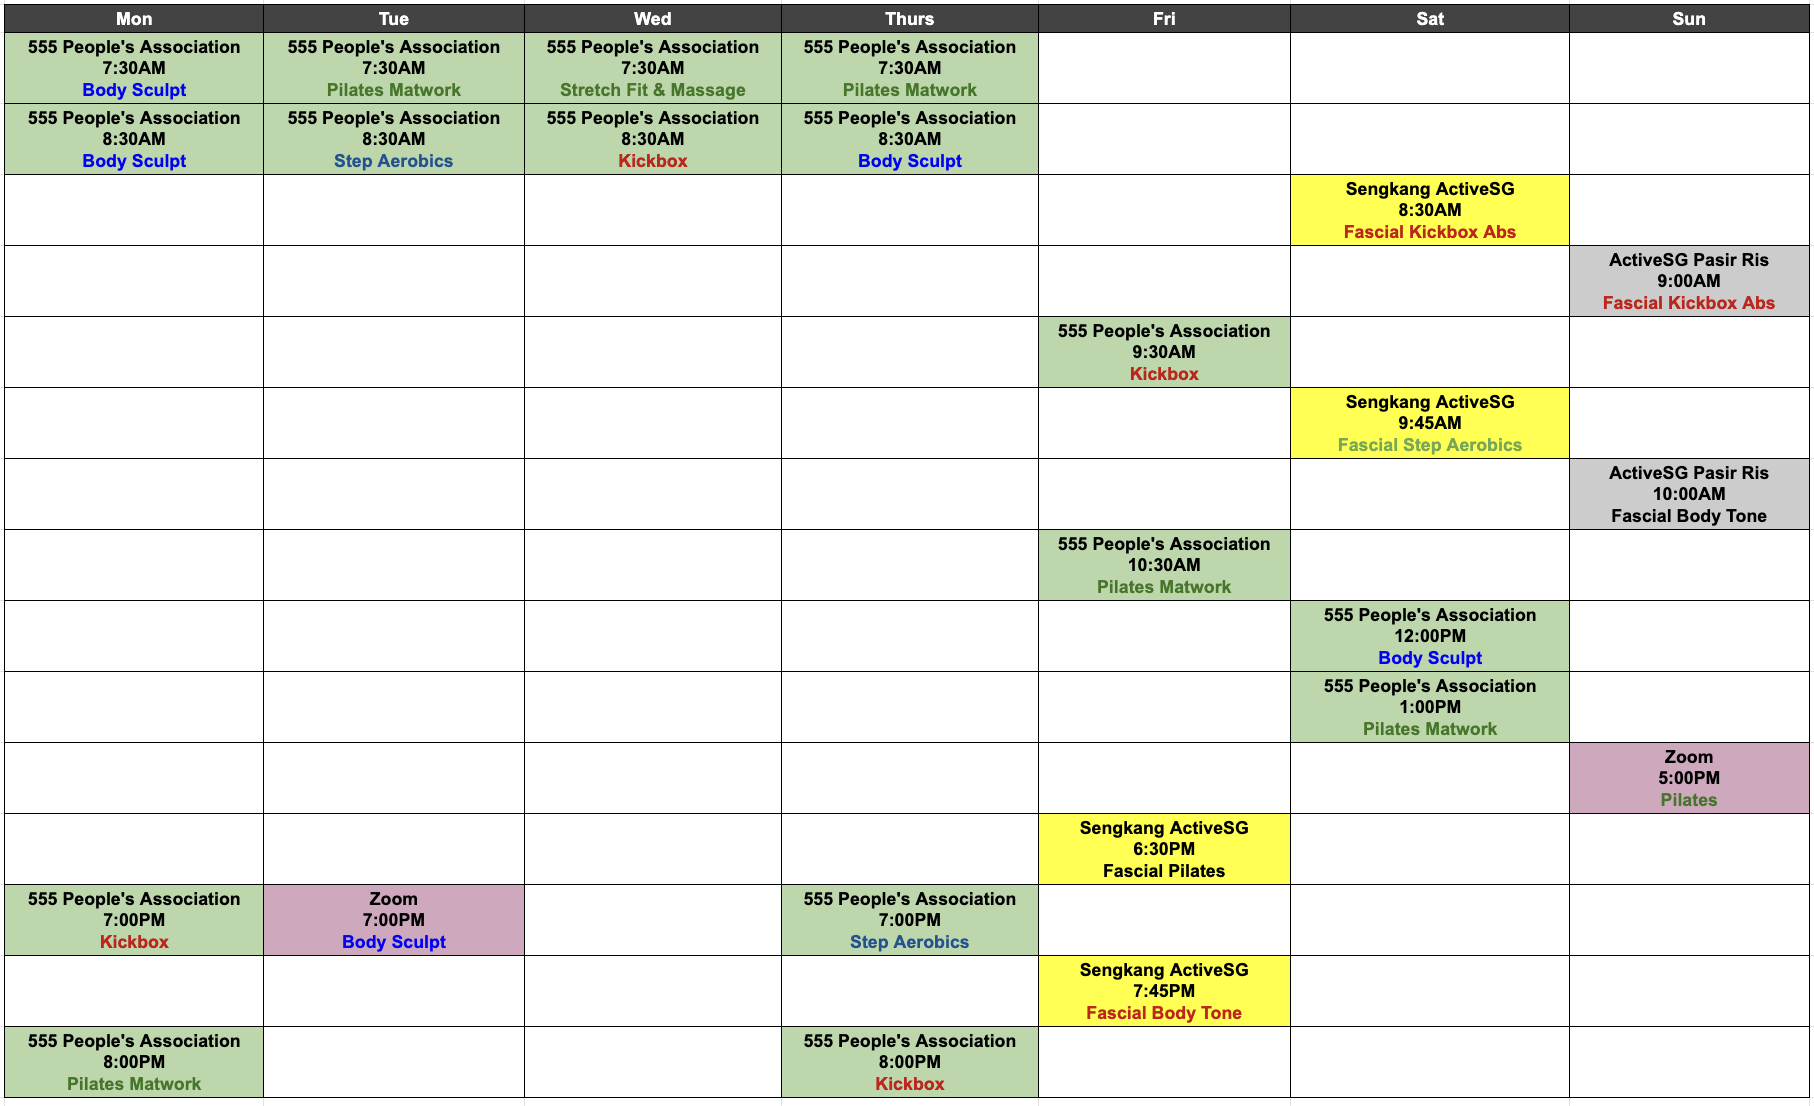
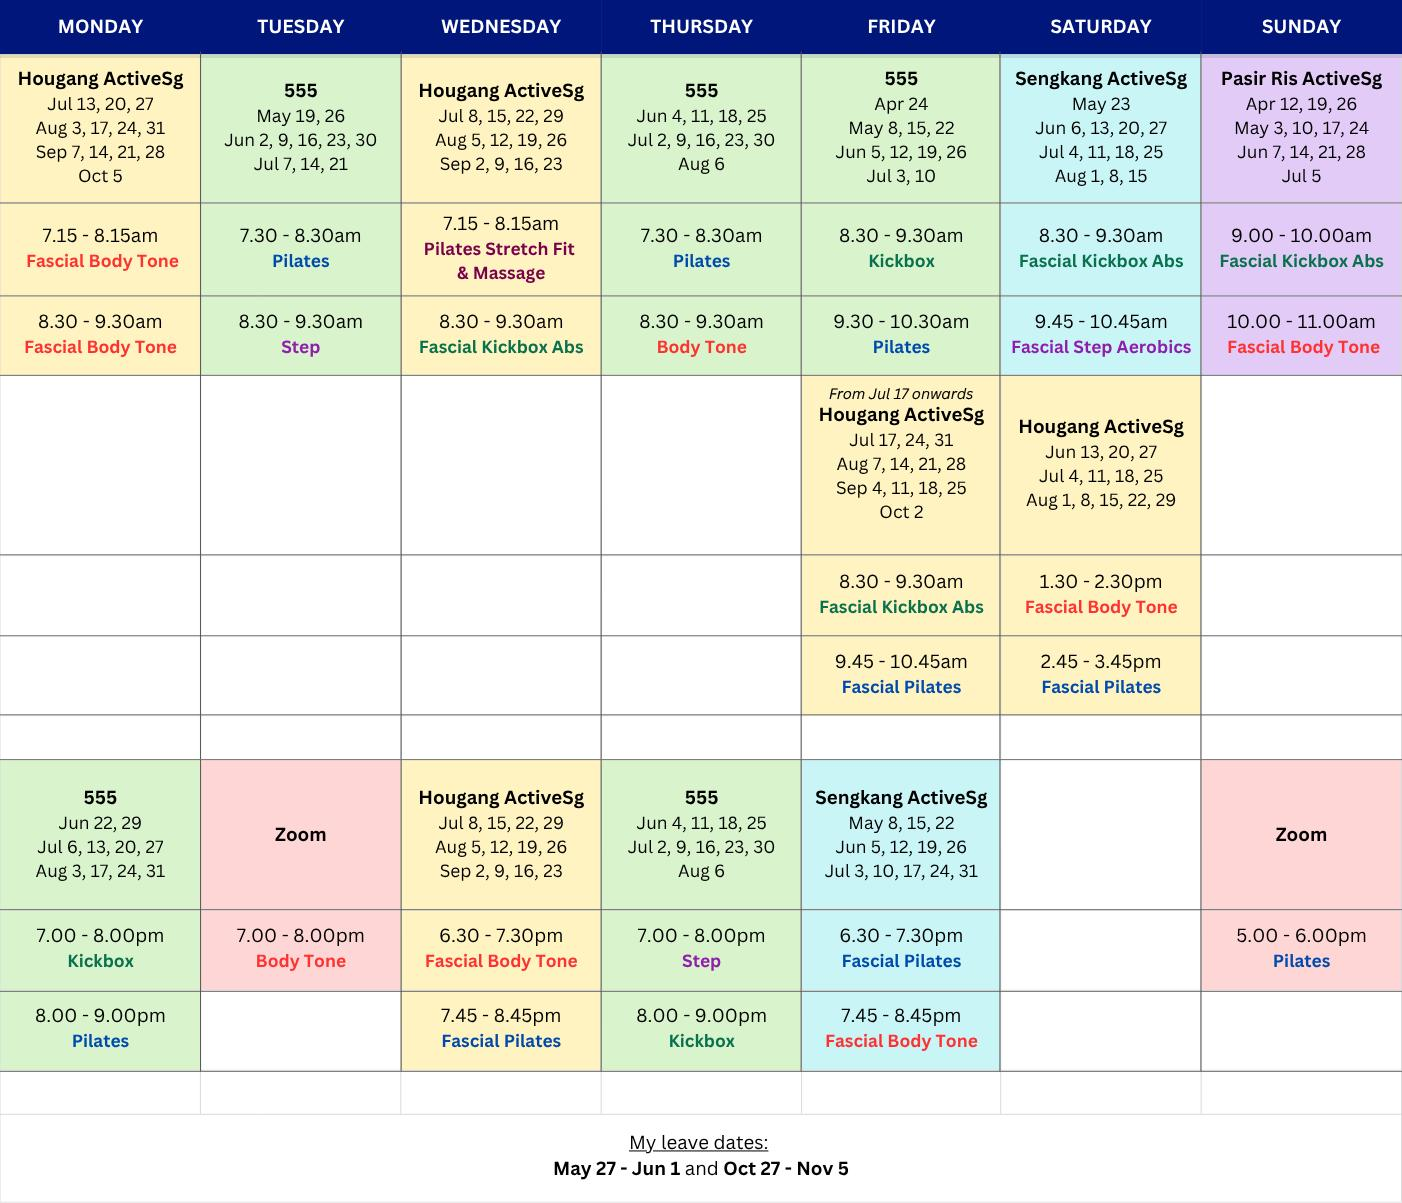
Update Schedule, Add Hougang Src

diff --git a/pages/classes.html b/pages/classes.html
@@ -24,6 +24,14 @@
 
     <div class="container-sub">
 
+      <h2>Leave Dates (No Class)</h2>
+      <div>
+        <ul>
+          <li>May 27 - Jun 1</li>
+          <li>Oct 27 - Nov 5</li>
+        </ul>
+      </div>
+
       <h2>Overall Schedule</h2>
 
       <div class="schedule-img-actions-container">
@@ -49,6 +57,42 @@
       <h2>Check them out below and secure your slots early. See you there!</h2>
 
       <div class="bookings-container">
+
+        <div class="booking-item-container bg-blur">
+          <div class="display-logo-container">
+            <img src="../images/activesglogo.png" class="img-cover" />
+          </div>
+          <h3>Active SG <b>Hougang</b> Sports Centre</h3>
+          <div class="booking-cta-container">
+            <button onclick="openInNewTab('https://www.google.com/maps/search/?api=1&query=Hougang+Sports+Centre')" class="loc">
+              <img class="ext-open" src="../icons/location.svg" />
+              <span class="ext-open-label">
+                See Location
+              </span>
+            </button>
+            <button
+              onclick="openInNewTab('https://activesg.gov.sg/programmes?filters=%7B%22searchQuery%22%3A%22iris+sim%22%2C%22showAvailableOnlyFilter%22%3Afalse%7D')"
+              class="makebook">
+              <img class="ext-open" src="../icons/ext-blue.svg" />
+              <span class="ext-open-label">
+                Book Slots
+              </span>
+            </button>
+          </div>
+          <span>Class Timings:</span>
+          <ul>
+            <li>Mon 7.15am - Fascial Body Tone</li>
+            <li>Mon 8.30am - Fascial Body Tone</li>
+            <li>Wed 7.15am - Pilates Stretch Fit &amp; Massage</li>
+            <li>Wed 8.30am - Fascial Kickbox Abs</li>
+            <li>Wed 6.30pm - Fascial Body Tone</li>
+            <li>Wed 7.45pm - Fascial Pilates</li>
+            <li>(*17th Jul onwards) Fri 8.30am - Fascial Kickbox Abs</li>
+            <li>(*17th Jul onwards) Fri 9.45am - Fascial Pilates</li>
+            <li>Sat 1.30pm - Fascial Body Tone</li>
+            <li>Sat 2.45pm - Fascial Pilates</li>
+          </ul>
+        </div>
 
         <div class="booking-item-container bg-blur">
           <div class="display-logo-container">
@@ -132,22 +176,17 @@
           <p><b>Location:</b> Block 555, Hougang Street 51 #01-322, Singapore 530555</p>
           <span>Class Timings:</span>
           <ul>
-            <li>Mon 7.30am - Body Sculpt</li>
-            <li>Mon 8.30am - Body Sculpt</li>
             <li>Mon 7.00pm - Kickbox</li>
             <li>Mon 8.00pm - Pilates Matwork</li>
             <li>Tue 7.30am - Pilates Matwork</li>
             <li>Tue 8.30am - Step Aerobics</li>
-            <li>Wed 7.30am - Stretch Fit & Massage</li>
-            <li>Wed 8.30am - Kickbox</li>
             <li>Thu 7.30am - Pilates Matwork</li>
             <li>Thu 8.30am - Body Sculpt</li>
             <li>Thu 7.00pm - Step Aerobics</li>
             <li>Thu 8.00pm - Kickbox</li>
+            <li>Fri 8.30am - Kickbox</li>
             <li>Fri 9.30am - Kickbox</li>
             <li>Fri 10.30am - Pilates Matwork</li>
-            <li>Sat 12.00pm - Body Sculpt</li>
-            <li>Sat 1.00pm - Pilates Matwork</li>
           </ul>
         </div>
 
